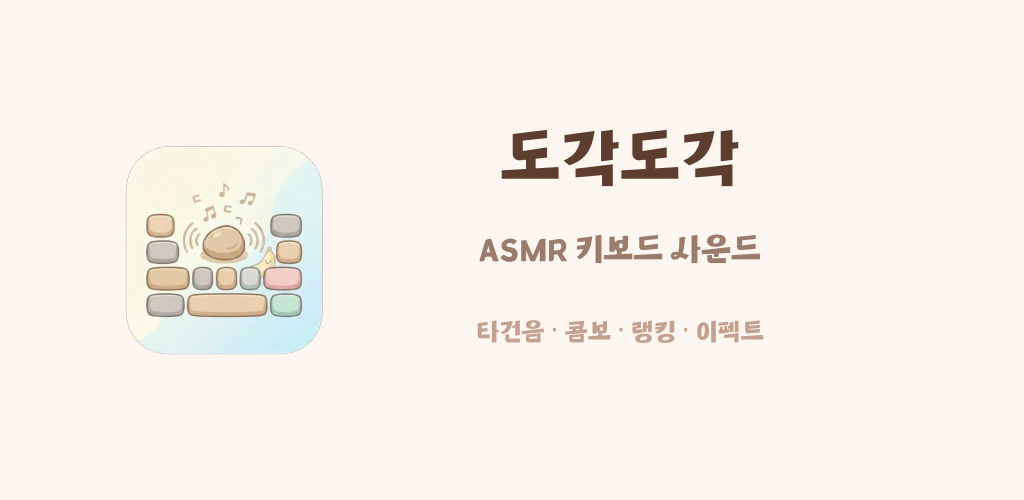
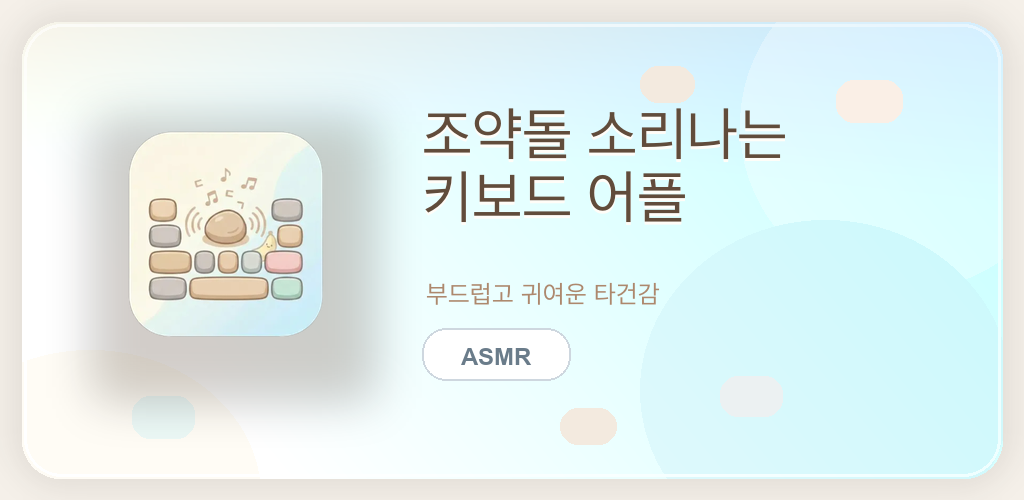
Integrate release assets and sound preview updates

diff --git a/app/src/main/java/helium314/keyboard/latin/dogakdogak/SoundScreen.kt b/app/src/main/java/helium314/keyboard/latin/dogakdogak/SoundScreen.kt
@@ -64,6 +64,19 @@ import kotlinx.coroutines.Job
 import kotlinx.coroutines.delay
 import kotlinx.coroutines.launch
 
+internal data class SoundPreviewBehavior(
+    val switchForLiveTyping: SwitchType,
+    val shouldReplaySoundOnTextChange: Boolean
+)
+
+internal fun soundPreviewBehavior(
+    previewSwitch: SwitchType,
+    isDogakdogakImeSelected: Boolean
+): SoundPreviewBehavior = SoundPreviewBehavior(
+    switchForLiveTyping = previewSwitch,
+    shouldReplaySoundOnTextChange = !isDogakdogakImeSelected
+)
+
 @Composable
 internal fun SoundScreen(prefs: SharedPreferences, purchaseRepository: PurchaseRepository? = null) {
     val colors = LocalDogakdogakColors.current
@@ -244,6 +257,13 @@ internal fun SoundScreen(prefs: SharedPreferences, purchaseRepository: PurchaseR
 
     // 미리듣기 다이얼로그 (바텀시트 스타일)
     previewSwitchType?.let { switchType ->
+        val previewBehavior = remember(switchType, context) {
+            soundPreviewBehavior(
+                previewSwitch = switchType,
+                isDogakdogakImeSelected = isImeSelected(context)
+            )
+        }
+
         fun dismissPreview() {
             previewSwitchType = null
             toastSwitchType = switchType
@@ -284,6 +304,13 @@ internal fun SoundScreen(prefs: SharedPreferences, purchaseRepository: PurchaseR
                         .background(colors.surface, RoundedCornerShape(topStart = 28.dp, topEnd = 28.dp))
                         .padding(horizontal = 20.dp).padding(top = 24.dp, bottom = 32.dp)
                 ) {
+                    androidx.compose.runtime.DisposableEffect(audioEngine, selectedSwitch, previewBehavior) {
+                        audioEngine?.setCurrentSwitch(previewBehavior.switchForLiveTyping)
+                        onDispose {
+                            audioEngine?.setCurrentSwitch(selectedSwitch)
+                        }
+                    }
+
                     // 드래그 핸들
                     Box(
                         modifier = Modifier.align(Alignment.CenterHorizontally)
@@ -324,7 +351,9 @@ internal fun SoundScreen(prefs: SharedPreferences, purchaseRepository: PurchaseR
                                     override fun onTextChanged(s: CharSequence?, start: Int, before: Int, count: Int) {}
                                     override fun afterTextChanged(s: android.text.Editable?) {
                                         val added = (s?.length ?: 0) - prevLen
-                                        if (added > 0) repeat(added.coerceAtMost(3)) { audioEngine?.playSwitchSound(switchType) }
+                                        if (added > 0 && previewBehavior.shouldReplaySoundOnTextChange) {
+                                            repeat(added.coerceAtMost(3)) { audioEngine?.playSwitchSound(switchType) }
+                                        }
                                     }
                                 })
                                 isFocusableInTouchMode = true

diff --git a/app/src/test/java/helium314/keyboard/latin/dogakdogak/SoundPreviewBehaviorTest.kt b/app/src/test/java/helium314/keyboard/latin/dogakdogak/SoundPreviewBehaviorTest.kt
@@ -1,0 +1,31 @@
+// SPDX-License-Identifier: GPL-3.0-only
+package helium314.keyboard.latin.dogakdogak
+
+import org.junit.Test
+import kotlin.test.assertEquals
+import kotlin.test.assertFalse
+import kotlin.test.assertTrue
+
+class SoundPreviewBehaviorTest {
+    @Test
+    fun previewTyping_usesPreviewSwitchWithoutManualReplay_whenDogakdogakImeIsSelected() {
+        val behavior = soundPreviewBehavior(
+            previewSwitch = SwitchType.PEBBLE_7,
+            isDogakdogakImeSelected = true
+        )
+
+        assertEquals(SwitchType.PEBBLE_7, behavior.switchForLiveTyping)
+        assertFalse(behavior.shouldReplaySoundOnTextChange)
+    }
+
+    @Test
+    fun previewTyping_replaysSoundOnTextChange_whenAnotherImeIsSelected() {
+        val behavior = soundPreviewBehavior(
+            previewSwitch = SwitchType.PEBBLE_7,
+            isDogakdogakImeSelected = false
+        )
+
+        assertEquals(SwitchType.PEBBLE_7, behavior.switchForLiveTyping)
+        assertTrue(behavior.shouldReplaySoundOnTextChange)
+    }
+}

diff --git a/tools/generate_feature_graphic.py b/tools/generate_feature_graphic.py
@@ -1,0 +1,160 @@
+from pathlib import Path
+from typing import List
+
+from PIL import Image, ImageDraw, ImageFilter, ImageFont
+
+
+ROOT = Path(__file__).resolve().parents[1]
+ICON_PATH = ROOT / "fastlane/metadata/android/en-US/images/icon.png"
+OUTPUT_PATH = ROOT / "fastlane/metadata/android/en-US/images/featureGraphic.png"
+
+WIDTH = 1024
+HEIGHT = 500
+
+
+def find_font(candidates: List[str], size: int):
+    for candidate in candidates:
+        path = Path(candidate)
+        if path.exists():
+            return ImageFont.truetype(str(path), size=size)
+    return ImageFont.load_default()
+
+
+def rounded_gradient_background() -> Image.Image:
+    bg = Image.new("RGBA", (WIDTH, HEIGHT), (248, 244, 236, 255))
+    px = bg.load()
+    for y in range(HEIGHT):
+        for x in range(WIDTH):
+            tx = x / (WIDTH - 1)
+            ty = y / (HEIGHT - 1)
+            cream = (249, 243, 230)
+            sky = (214, 242, 251)
+            mint = (232, 247, 238)
+            r = int(cream[0] * (1 - tx) + sky[0] * tx * 0.9 + mint[0] * ty * 0.1)
+            g = int(cream[1] * (1 - tx) + sky[1] * tx * 0.95 + mint[1] * ty * 0.25)
+            b = int(cream[2] * (1 - tx) + sky[2] * tx + mint[2] * ty * 0.35)
+            px[x, y] = (r, g, b, 255)
+
+    overlay = Image.new("RGBA", (WIDTH, HEIGHT), (0, 0, 0, 0))
+    draw = ImageDraw.Draw(overlay)
+    draw.ellipse((740, -40, 1070, 290), fill=(255, 255, 255, 75))
+    draw.ellipse((640, 220, 1010, 560), fill=(201, 238, 247, 95))
+    draw.ellipse((-80, 350, 260, 640), fill=(255, 247, 224, 85))
+    draw.rounded_rectangle((24, 24, WIDTH - 24, HEIGHT - 24), radius=38, outline=(255, 255, 255, 150), width=3)
+    return Image.alpha_composite(bg, overlay)
+
+
+def add_soft_shapes(canvas: Image.Image) -> None:
+    draw = ImageDraw.Draw(canvas)
+    pebble_colors = [
+        (229, 210, 186, 120),
+        (212, 223, 226, 110),
+        (243, 217, 198, 110),
+        (208, 239, 233, 105),
+    ]
+    pebbles = [
+        (640, 66, 694, 102),
+        (720, 376, 782, 416),
+        (836, 80, 902, 122),
+        (132, 396, 194, 438),
+        (560, 408, 616, 444),
+    ]
+    for box, color in zip(pebbles, pebble_colors * 2):
+        draw.rounded_rectangle(box, radius=18, fill=color)
+
+
+def paste_icon(canvas: Image.Image) -> None:
+    icon = Image.open(ICON_PATH).convert("RGBA")
+    icon = icon.resize((276, 276), Image.LANCZOS)
+
+    shadow = Image.new("RGBA", canvas.size, (0, 0, 0, 0))
+    shadow_layer = Image.new("RGBA", icon.size, (91, 73, 57, 70))
+    shadow.alpha_composite(shadow_layer, (96, 122))
+    shadow = shadow.filter(ImageFilter.GaussianBlur(22))
+    canvas.alpha_composite(shadow)
+    canvas.alpha_composite(icon, (84, 96))
+
+
+def draw_text_block(canvas: Image.Image) -> None:
+    draw = ImageDraw.Draw(canvas)
+    title_font = find_font(
+        [
+            "/System/Library/Fonts/AppleSDGothicNeo.ttc",
+            "/System/Library/Fonts/Supplemental/AppleGothic.ttf",
+            "/System/Library/Fonts/Supplemental/Arial Unicode.ttf",
+        ],
+        58,
+    )
+    body_font = find_font(
+        [
+            "/System/Library/Fonts/AppleSDGothicNeo.ttc",
+            "/System/Library/Fonts/Supplemental/AppleGothic.ttf",
+            "/System/Library/Fonts/Supplemental/Arial Unicode.ttf",
+        ],
+        25,
+    )
+    pill_font = find_font(
+        [
+            "/System/Library/Fonts/Supplemental/Avenir Next Demi Bold.ttf",
+            "/System/Library/Fonts/Supplemental/Arial Bold.ttf",
+        ],
+        24,
+    )
+
+    title = "조약돌 소리나는\n키보드 어플"
+    x = 422
+    y = 102
+
+    shadow_color = (255, 252, 247, 210)
+    text_color = (97, 76, 59, 255)
+    accent_color = (173, 136, 109, 255)
+
+    for ox, oy in [(0, 3), (0, 2)]:
+        draw.multiline_text((x, y + oy), title, font=title_font, fill=shadow_color, spacing=10)
+    draw.multiline_text((x, y), title, font=title_font, fill=text_color, spacing=10)
+
+    subtitle = "부드럽고 귀여운 타건감"
+    draw.text((x + 4, 280), subtitle, font=body_font, fill=accent_color)
+
+    pill_box = (x, 328, x + 148, 380)
+    draw.rounded_rectangle(pill_box, radius=24, fill=(255, 255, 255, 230), outline=(206, 215, 223, 255), width=2)
+    draw.rounded_rectangle((pill_box[0] + 4, pill_box[1] + 4, pill_box[2] - 4, pill_box[3] - 4), radius=20, outline=(255, 255, 255, 160), width=1)
+    tw = draw.textbbox((0, 0), "ASMR", font=pill_font)
+    text_w = tw[2] - tw[0]
+    text_h = tw[3] - tw[1]
+    draw.text(
+        (pill_box[0] + ((pill_box[2] - pill_box[0] - text_w) / 2), pill_box[1] + ((pill_box[3] - pill_box[1] - text_h) / 2) - 2),
+        "ASMR",
+        font=pill_font,
+        fill=(106, 124, 138, 255),
+    )
+
+
+def add_frame_border(canvas: Image.Image) -> Image.Image:
+    framed = Image.new("RGBA", (WIDTH, HEIGHT), (245, 240, 233, 255))
+    shadow = Image.new("RGBA", (WIDTH, HEIGHT), (0, 0, 0, 0))
+    sdraw = ImageDraw.Draw(shadow)
+    sdraw.rounded_rectangle((18, 18, WIDTH - 18, HEIGHT - 18), radius=42, fill=(95, 83, 70, 32))
+    shadow = shadow.filter(ImageFilter.GaussianBlur(16))
+    framed.alpha_composite(shadow)
+
+    mask = Image.new("L", (WIDTH, HEIGHT), 0)
+    mdraw = ImageDraw.Draw(mask)
+    mdraw.rounded_rectangle((22, 22, WIDTH - 22, HEIGHT - 22), radius=38, fill=255)
+    framed.paste(canvas, (0, 0), mask)
+    return framed
+
+
+def main() -> None:
+    canvas = rounded_gradient_background()
+    add_soft_shapes(canvas)
+    paste_icon(canvas)
+    draw_text_block(canvas)
+    final_image = add_frame_border(canvas)
+    OUTPUT_PATH.parent.mkdir(parents=True, exist_ok=True)
+    final_image.save(OUTPUT_PATH)
+    print(f"Saved {OUTPUT_PATH}")
+
+
+if __name__ == "__main__":
+    main()

diff --git a/docs/superpowers/plans/2026-03-13-message-typing-video.md b/docs/superpowers/plans/2026-03-13-message-typing-video.md
@@ -1,0 +1,33 @@
+# Message Typing Video Implementation Plan
+
+> **For agentic workers:** REQUIRED: Use superpowers:subagent-driven-development (if subagents available) or superpowers:executing-plans to implement this plan. Steps use checkbox (`- [ ]`) syntax for tracking.
+
+**Goal:** Build a 736x1012 video that types a long message into a chat input, plays Pebble 9 typing audio, and sends the text into a final chat bubble.
+
+**Architecture:** Recreate the provided chat screenshot style as a deterministic PIL-rendered layout, generate animation frames for input typing and final sent state, synthesize randomized Pebble 9 audio to match typing cadence, then mux frames and audio into an MP4.
+
+**Tech Stack:** Python 3, PIL, ffmpeg-static, existing Pebble 9 mp3 assets
+
+---
+
+### Task 1: Produce the animation and audio assets
+
+**Files:**
+- Create: `tmp/render_message_typing_video.py`
+- Create: `tmp/message_typing_video.mp4`
+- Create: `tmp/message_typing_audio.mp3`
+
+- [ ] Write a self-contained Python renderer script in `tmp/render_message_typing_video.py`.
+- [ ] Generate frame images with the provided message typed into the bottom input bar.
+- [ ] Add a final frame state where the message moves into a new received-style chat bubble.
+- [ ] Build randomized Pebble 9 typing audio from existing `switch_pebble9_*.mp3` clips.
+- [ ] Encode the final video to `tmp/message_typing_video.mp4`.
+
+### Task 2: Verify output
+
+**Files:**
+- Verify: `tmp/message_typing_video.mp4`
+
+- [ ] Confirm the video exists and has the expected 736x1012 resolution.
+- [ ] Confirm duration is about 10 seconds and audio is present.
+- [ ] Share the output path with the user.

diff --git a/docs/superpowers/plans/2026-03-14-feature-graphic-plan.md b/docs/superpowers/plans/2026-03-14-feature-graphic-plan.md
@@ -1,0 +1,30 @@
+# Feature Graphic Implementation Plan
+
+> **For agentic workers:** REQUIRED: Use superpowers:subagent-driven-development (if subagents available) or superpowers:executing-plans to implement this plan. Steps use checkbox (`- [ ]`) syntax for tracking.
+
+**Goal:** Generate a cleaner Play Store feature graphic that matches the existing app icon style.
+
+**Architecture:** Reuse the current icon asset as the visual anchor, generate a soft pastel banner composition with PIL, and export directly to the existing Play Store feature graphic path.
+
+**Tech Stack:** Python 3, PIL, existing PNG assets
+
+---
+
+### Task 1: Build a reproducible graphic renderer
+
+**Files:**
+- Create: `tools/generate_feature_graphic.py`
+- Modify: `fastlane/metadata/android/en-US/images/featureGraphic.png`
+
+- [ ] **Step 1: Write the renderer script**
+- [ ] **Step 2: Generate the graphic with icon, title, and ASMR pill**
+- [ ] **Step 3: Export to the Play Store feature graphic path**
+
+### Task 2: Verify the output
+
+**Files:**
+- Verify: `fastlane/metadata/android/en-US/images/featureGraphic.png`
+
+- [ ] **Step 1: Check final dimensions are 1024x500**
+- [ ] **Step 2: Review visual tone against the icon**
+- [ ] **Step 3: Share the output path and summary**

diff --git a/docs/superpowers/specs/2026-03-14-feature-graphic-design.md b/docs/superpowers/specs/2026-03-14-feature-graphic-design.md
@@ -1,0 +1,26 @@
+# Feature Graphic Design Spec
+
+## 목표
+
+안드로이드 마켓 검색 결과에 노출되는 feature graphic을 현재 앱 아이콘과 같은 결로 정리한다. 기존 배너의 과한 3D/광택/AI 느낌을 줄이고, 아이콘의 파스텔 톤과 둥근 손그림 감성을 확장한 브랜딩 카드처럼 보이게 만든다.
+
+## 디자인 방향
+
+- 전체 비율은 Play feature graphic 규격인 `1024x500`
+- 배경은 아이콘의 `크림 + 하늘색` 계열을 확장한 부드러운 그라데이션
+- 좌측에는 현재 앱 아이콘을 크게 배치
+- 우측에는 제품명 `조약돌 소리나는 키보드 어플`
+- 보조 포인트로 iOS 감성의 둥근 `ASMR` 필 버튼 추가
+- 불필요한 3D 키보드, 손가락, 안드로이드 캐릭터, 과한 반짝이 요소는 제거
+
+## 시각 원칙
+
+- 아이콘과 같은 파스텔 팔레트 사용
+- 텍스트는 또렷하되 입체감은 최소화
+- 작은 썸네일에서도 읽히는 명도 대비 확보
+- 광고 배너보다 앱 브랜드 소개 카드처럼 보이게 구성
+
+## 산출물
+
+- 최종 PNG: `fastlane/metadata/android/en-US/images/featureGraphic.png`
+- 필요 시 재생성 가능한 스크립트 보관
